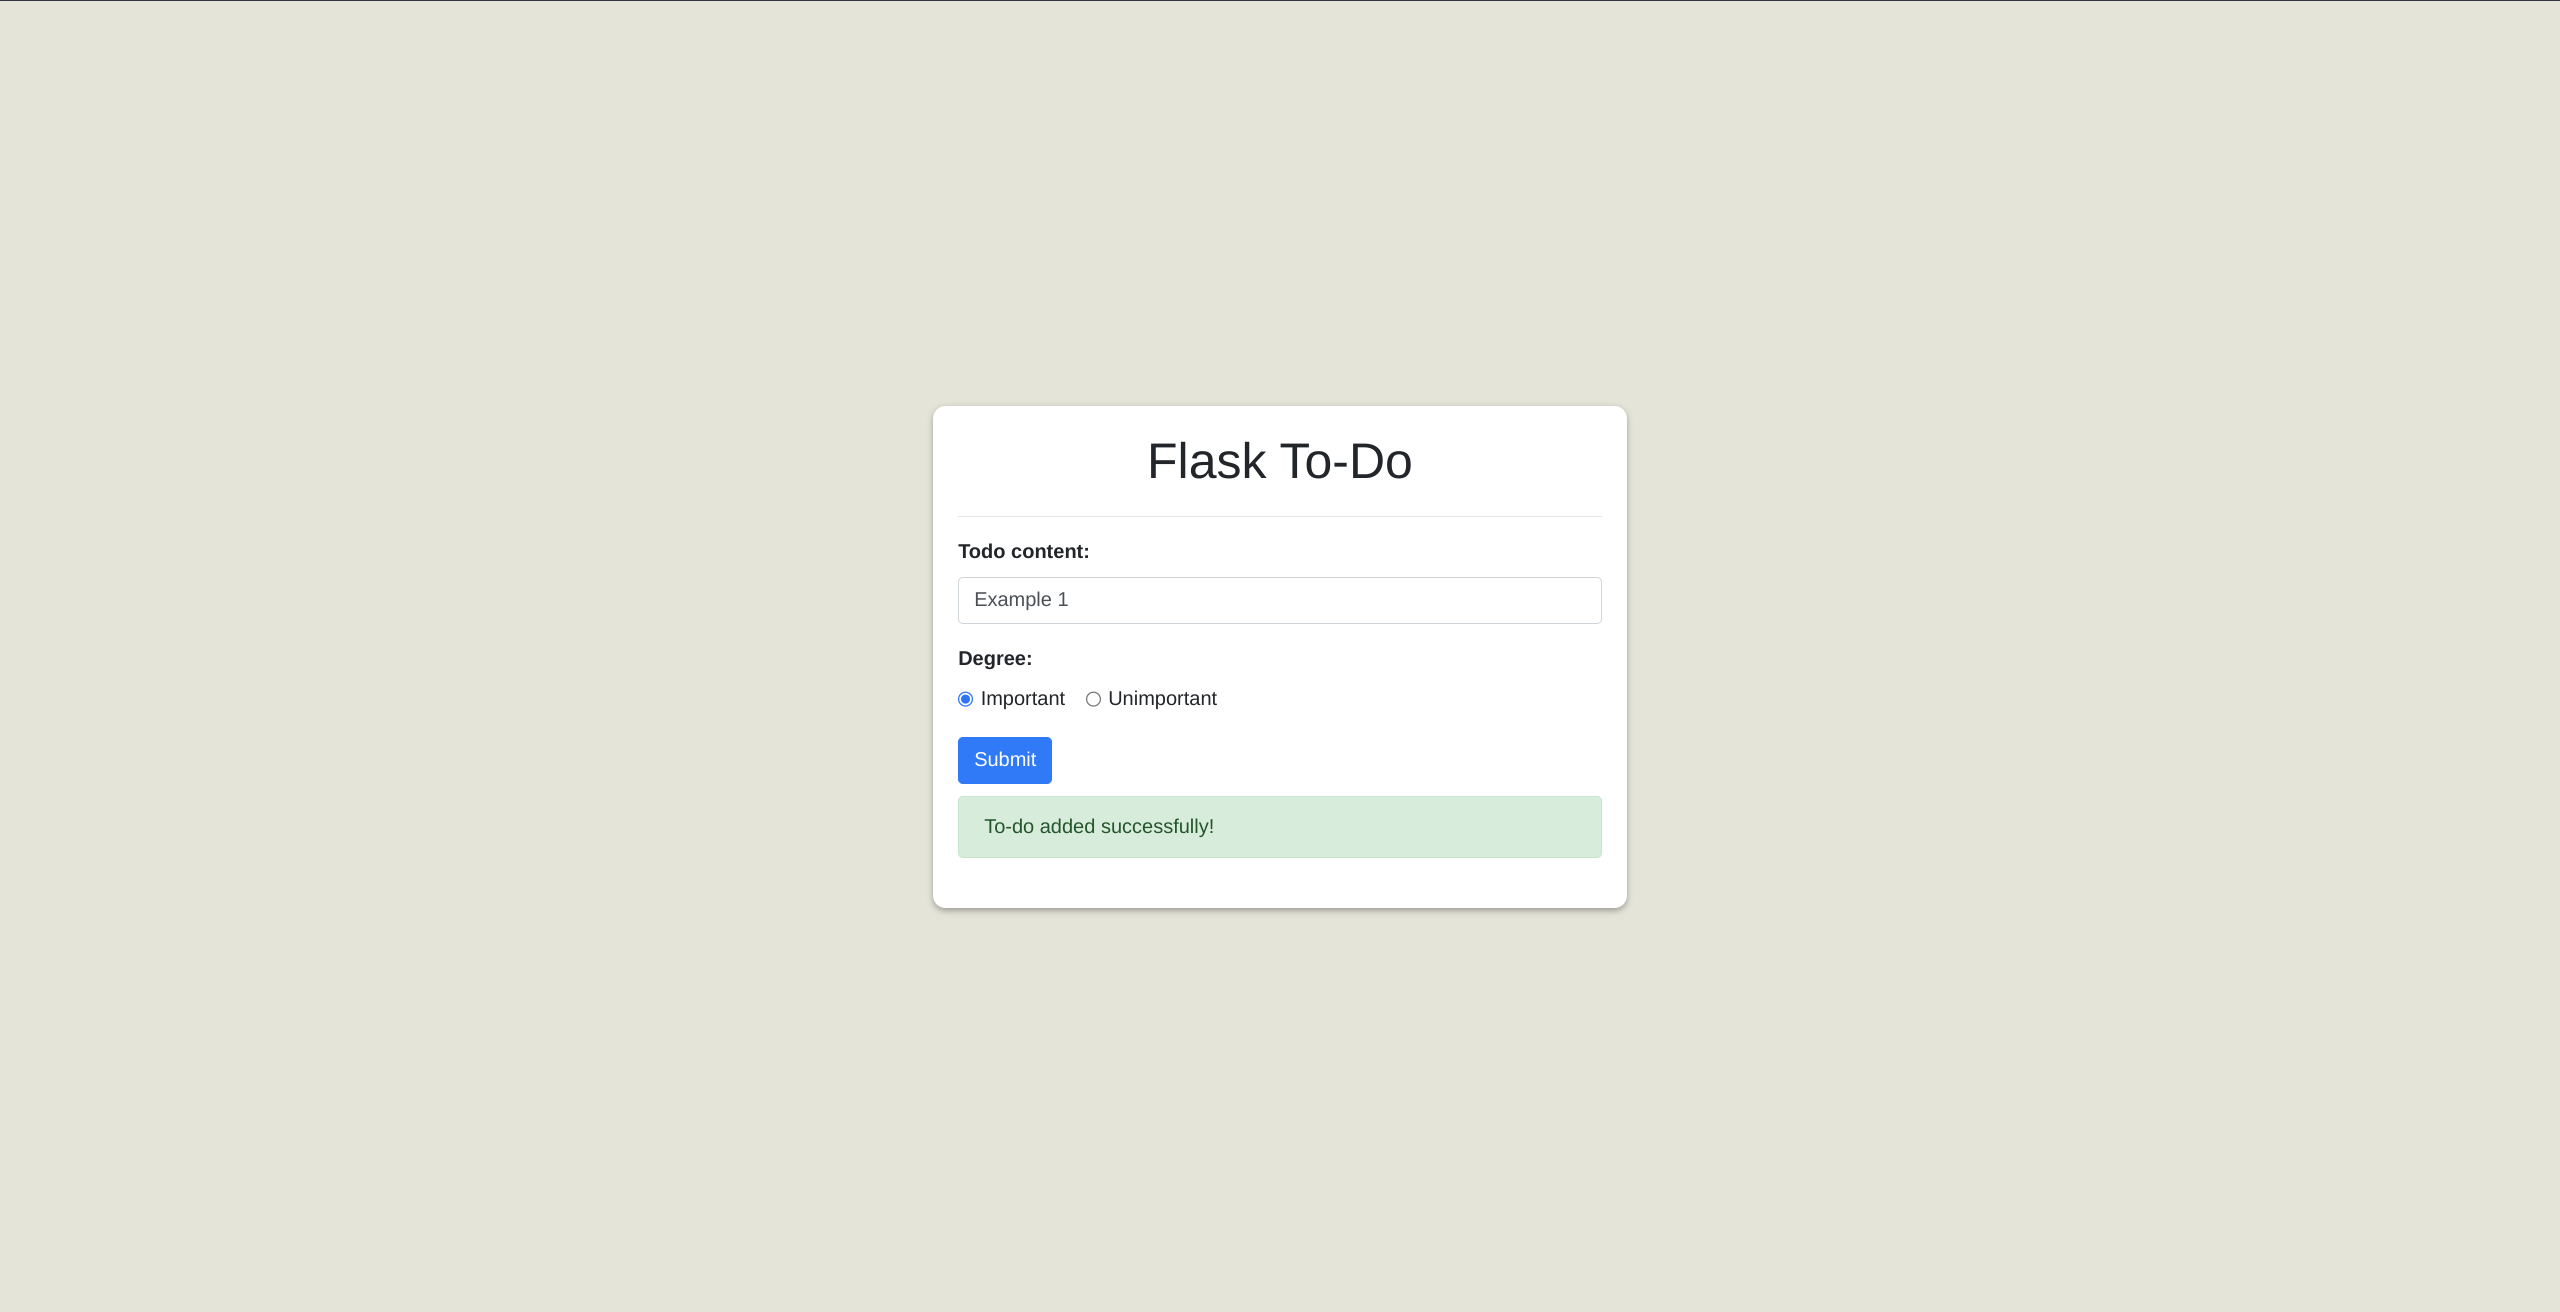
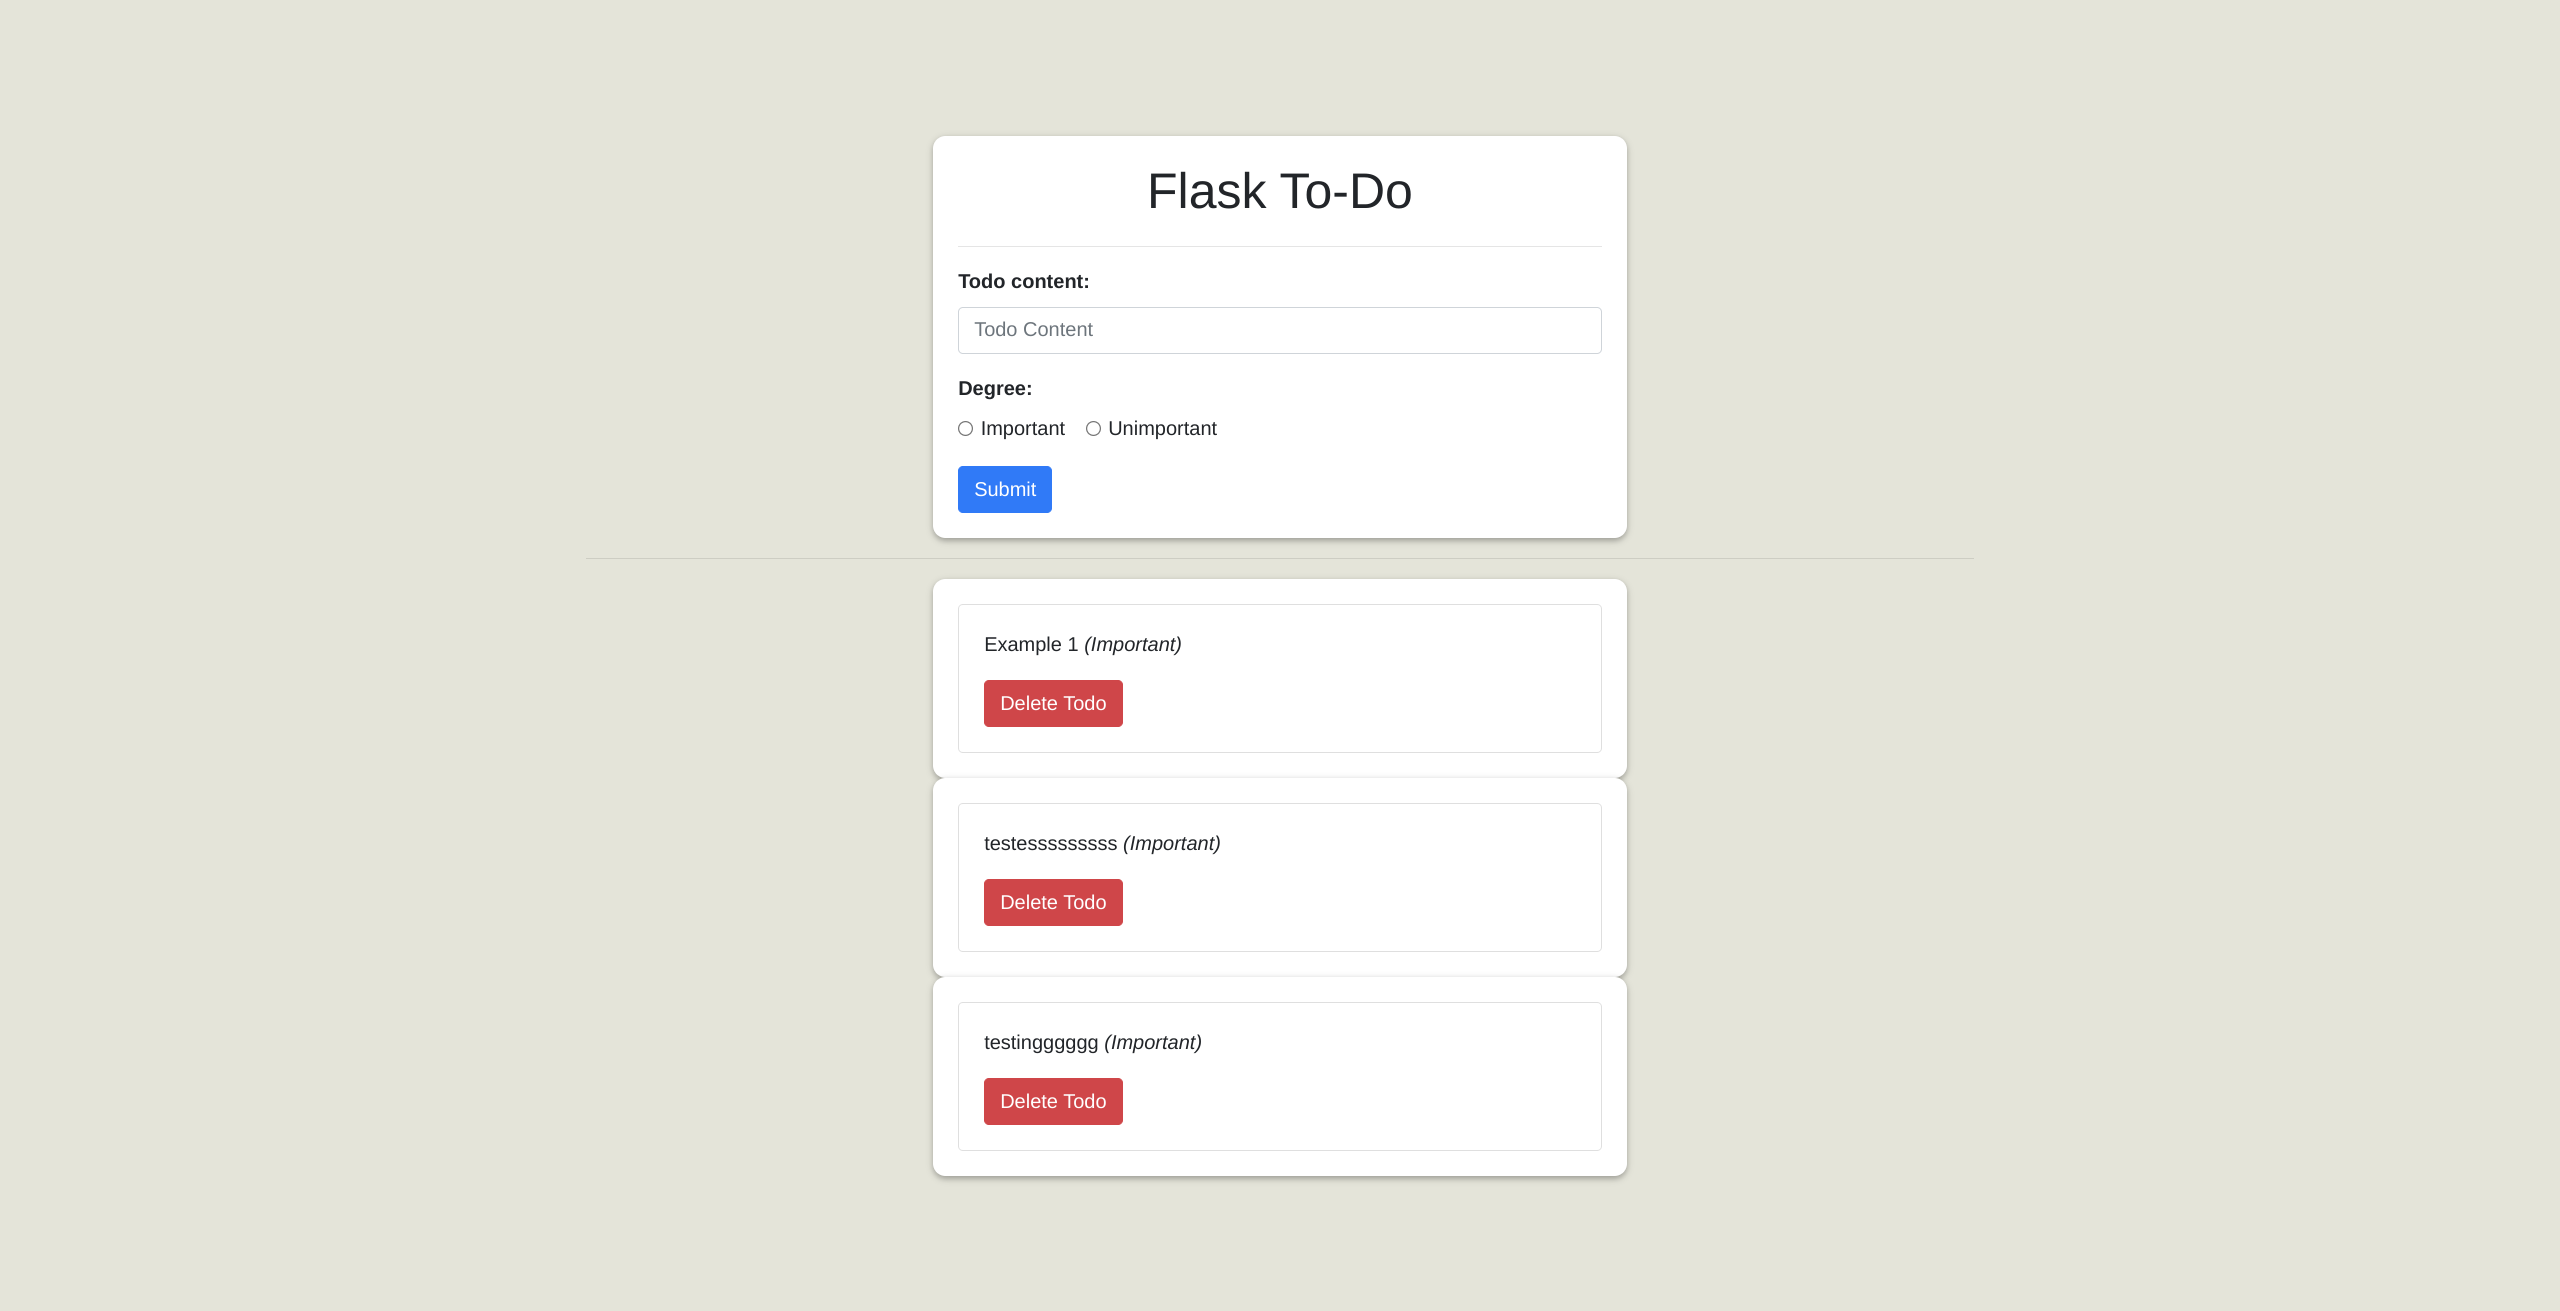
Now, user can delete entry.

Changed region(s): [[0.3438, 0.0915, 0.6562, 0.9153]]

diff --git a/templates/index.html b/templates/index.html
@@ -78,6 +78,22 @@
                     <button type="submit" class="btn btn-primary">Submit</button>
                 </div>
             </form>
+            <hr>
+            {% for todo in todos %}
+            <div class="todo-form">
+                <div class="card">
+                <div class="card-body">
+                    <div class="todo">
+                    <p>{{ todo['content'] }} <i>({{ todo['degree']}})</i></p>
+                    <form method="POST" action="{{ url_for('delete', id=todo['_id']) }}" >
+                        <input type="submit" value="Delete Todo" class="btn btn-danger"
+                                onclick="return confirm('Are you sure you want to delete this entry?')">
+                    </form>
+                    </div>
+                </div>
+                </div>
+            </div>
+           {% endfor %}
         </div>
     </div>
 </div>

diff --git a/app.py b/app.py
@@ -1,10 +1,11 @@
 from flask import Flask, render_template, request, url_for, redirect
 from pymongo import MongoClient
+from bson.objectid import ObjectId
 
 app = Flask(__name__)
 
 # Instance of the MongoClient class from the PyMongo library
-client = MongoClient('Your_mongodb_goes_here')
+client = MongoClient('mongodb+srv://user1:rjYKfcsRcgG6kMe1@cluster0.tbouul8.mongodb.net/?retryWrites=true&w=majority')
 
 db = client.flask_db
 todos = db.todos
@@ -22,3 +23,10 @@ def index():
 
     all_todos = todos.find()
     return render_template('index.html', todos=all_todos)
+
+
+# Route for deleting the items of the list
+@app.post('/<id>/delete/')
+def delete(id):
+    todos.delete_one({"_id": ObjectId(id)})
+    return redirect(url_for('index'))

diff --git a/README.md b/README.md
@@ -13,6 +13,10 @@ This is a simple Flask app for managing a todo list, with items stored in a Mong
   <img alt="BetterDay" src="./web/preview/preview2.png" >
 </p>
 
+<p align="center">
+  <img alt="BetterDay" src="./web/preview/preview3.png" >
+</p>
+
 ## Requirements
 To run this app, you need:
 
